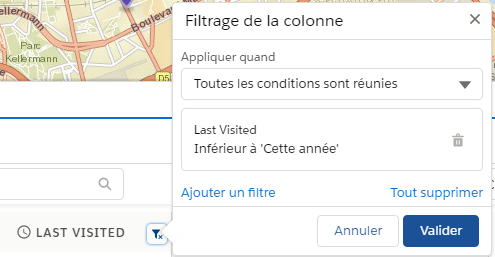
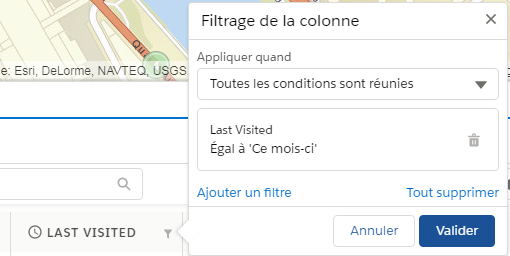
Change assets
Change assets according to UI changes. Fix .md codes

diff --git a/_pages/fr/std/user/v2/objects.md b/_pages/fr/std/user/v2/objects.md
@@ -204,12 +204,12 @@ Le filtrage sur les champs de type Date ou DateTime est réalisé en choisissant
 | | | |
 |:-------------:|:-------------:|:-------------:|
 |![Filtres actifs]({{ site.url }}/assets/img-std-v2/user/objects/colfilter_date_01.png){:.img.img-responsive.img-center}|![Filtres actifs]({{ site.url }}/assets/img-std-v2/user/objects/colfilter_date_02.png){:.img.img-responsive.img-center}|![Filtres actifs]({{ site.url }}/assets/img-std-v2/user/objects/colfilter_date_03.png){:.img.img-responsive.img-center}|
-| *Liste des conditions* | *Date de dernière visite de l'année dernière* | *Liste des conditions* |
+| *Liste des conditions* | *Date de dernière visite du mois en cours* | *Liste des conditions* |
 
 {:.table}
 | |
 |:-------------:|
-|![Filtres actifs]({{ site.url }}/assets/img-std-v2/user/objects/colfilter_number_result.png){:.img.img-responsive.img-center}|
+|![Filtres actifs]({{ site.url }}/assets/img-std-v2/user/objects/colfilter_date_result.png){:.img.img-responsive.img-center}|
 | *Résultat* |
 
 <div class="alert alert-info" role="alert">Le filtrage sur les colonnes s'applique de gauche à droite.<br />Si des filtres sont activés sur les colonnes "CA 2016" et "CA 2017", le résultat sera obtenu en filtrant dans un premier temps la donnée avec les conditions définies sur la colonne "CA 2016", puis celles definies pour la colonne "CA 2017".</div>

diff --git a/_pages/fr/std/user/v2/working-layer.md b/_pages/fr/std/user/v2/working-layer.md
@@ -20,7 +20,7 @@ Cette extraction peut se faire à partir:
 | | |
 |:-------------:|:-------------:|
 |![Working Layer]({{ site.url }}/assets/img-std-v2/user/wl/extract_from_aoi.png){:.img.img-responsive.img-center}|![Working Layer]({{ site.url }}/assets/img-std-v2/user/wl/extract_from_nearbysearch.png){:.img.img-responsive.img-center}|
-| \_Zone d'intérêt* | _Proximité_ |
+| *Zone d'intérêt* | *Proximité* |
 
 En activant cette option, une fenêtre propose à l'utilisateur de choisir parmi les couches affichées sur l'écran celle(s) dont il souhaite extraire les objets se trouvant à l'intérieur:
 ![Working Layer]({{ site.url }}/assets/img-std-v2/user/wl/extract_records.png){:.img.img-responsive.img-center}
@@ -43,7 +43,7 @@ Pour chacune de ces couches de travail, il est possible:
 | |
 |:-------------:|
 |![Working Layer]({{ site.url }}/assets/img-std-v2/user/wl/wl_popupmenu.png){:.img.img-responsive.img-center}|
-| \_Menu contextuel* |
+| *Menu contextuel* |
 
 Le détail des objets extraits est visualisable dans un tableau où les différentes couches sont affichées dans un onglet:
 ![Working Layer]({{ site.url }}/assets/img-std-v2/user/wl/extracted_records_details.png){:.img.img-responsive.img-center}

diff --git a/_pages/fr/std/user/v2/listes-associees.md b/_pages/fr/std/user/v2/listes-associees.md
@@ -29,4 +29,8 @@ En haut à droite, si les objets de la liste ont été paramétrés comme étant
 
 ## Tableaux de bord
 
-Si des tableaux de bord ont été préalablement définis sur ce type d’objet, il apparaissent dans une liste déroulante. Ils sont actualisés en fonction du résultat de la vue sélectionnée.
+Si des tableaux de bord ont été préalablement définis sur ce type d’objet, l'icône ![Galigeo for Salesforce User]({{ site.url }}/assets/img-std-v2/user/icons/icon_dashboard.png) devient visible. En cliquant dessus, la liste des tableaux de bord accessibles est affiché.
+
+![Data Explorer]({{ site.url }}/assets/img-std-v2/user/relatedlist/acct_relatedlist_dashboard.png){:.img.img-responsive.img-center.img-bordered}
+
+

diff --git a/_pages/fr/std/user/v2/visites.md b/_pages/fr/std/user/v2/visites.md
@@ -47,6 +47,8 @@ Cliquez sur le bouton « Calculer » pour calculer l’itinéraire. L’itinéra
 
 ![Planning]({{ site.url }}/assets/img-std-v2/user/planning/computed_route.png){:.img.img-responsive.img-center.img-bordered}
 
+<div class="alert alert-warning" role="alert"> <strong>Important :</strong> Le nombre de point maximal pour le calcul est fixé à 10. Au delà, un message informe l'utilisateur.</div>
+
 Vous pouvez à tout moment retirer un point de l'itinéraire en cliquant sur la croix à droite du nom de l'objet.
 
 ![PLanning]({{ site.url }}/assets/img-std-v2/user/planning/remove_record.png){:.img.img-responsive.img-center.img-bordered}

diff --git a/_pages/fr/std/user/v2/zone-interet.md b/_pages/fr/std/user/v2/zone-interet.md
@@ -23,7 +23,7 @@ L'outil de dessin est accessible en cliquant sur l'icône ![Area of Interest]({{
 | | |
 |:-------------:|:-------------:|
 |![Area of Interest]({{ site.url }}/assets/img-std-v2/user/aoi/aoi_drawing_inprogress.png){:.img.img-responsive.img-center}|![Area of Interest]({{ site.url }}/assets/img-std-v2/user/aoi/aoi_drawing_done.png){:.img.img-responsive.img-center}|
-| \_Dessin en cours* | _Dessin terminé_ |
+| *Dessin en cours* | *Dessin terminé* |
 
 Une fois terminé, la zone est disponible dans la liste:
 ![Area of Interest]({{ site.url }}/assets/img-std-v2/user/aoi/aoi_drawing_done_list.png){:.img.img-responsive.img-center}
